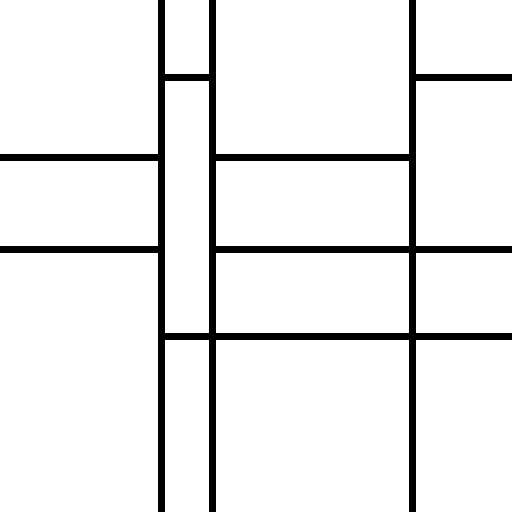
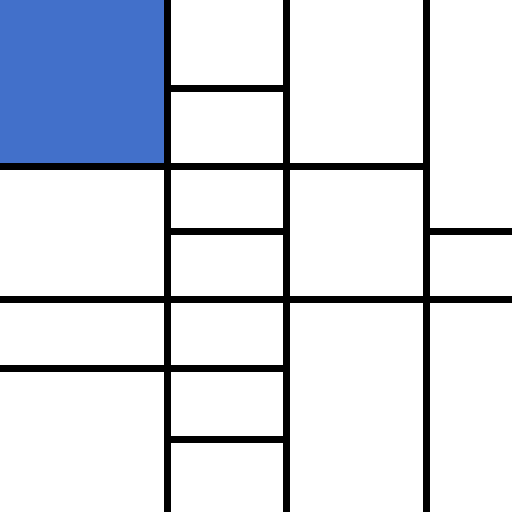
Add mondriaan top left roi color

Changed region(s): [[0.0, 0.0, 1.0, 1.0]]

diff --git a/src/mondriaan.py b/src/mondriaan.py
@@ -5,22 +5,35 @@ import random
 
 CANVAS_WIDTH = 512
 CANVAS_HEIGHT = 512
-LINE_THICKNESS_V = 5
-LINE_THICKNESS_H = 5
+LINE_THICKNESS = 5
 END_DIST_THRESH = int(CANVAS_WIDTH * 0.1)
 COLOR_BLACK_BGR = (0, 0, 0)
 H_STEP_MIN = int(CANVAS_HEIGHT * 0.1)
 H_STEP_MAX = int(CANVAS_HEIGHT * 0.4)
 V_STEP_MIN = int(CANVAS_WIDTH * 0.1)
 V_STEP_MAX = int(CANVAS_WIDTH * 0.2)
+BGR_B_LOWER = (125, 112, 66)
+BGR_B_UPPER = (210, 112, 66)
 
-
-# print(V_STEP_MIN)
 
 def create_canvas(h, w, c):
     img = np.zeros((h, w, 3), np.uint8)  # h-w-d
     img.fill(c)
     return img
+
+
+def random_color(bgr_lower, bgr_upper, index):
+    c = np.array([0, 0, 0])
+    for i, (l, u) in enumerate(zip(bgr_lower, bgr_upper)):
+        if i == index:
+            c[i] = random.randint(bgr_lower[index], bgr_upper[index])
+        else:
+            c[i] = u
+    return c
+
+
+def roi_fill_color(img, roi, color):
+    img[roi[0][1]:roi[1][1], roi[0][0]:roi[1][0]] = color
 
 
 def draw_v_lines(img, h_step_min, h_step_max, end_dist_thresh, color, thickness):
@@ -67,22 +80,37 @@ def draw_h_lines(img, v_lines, v_step_min, v_step_max, end_dist_thresh, color, t
             break
 
         last_v = 0
+        v_step_h_lines = []
         for v_line in v_lines:
             if random.choice(draw_choice) > 0:
                 img = cv2.line(img,
                                (last_v, v_step_end), (v_line, v_step_end),
                                color,
                                thickness)
-                h_lines.append(((last_v, v_line), v_step_end))
+                v_step_h_lines.append((last_v, v_line))
+
             last_v = v_line
 
+        h_lines.append([v_step_h_lines, v_step_end])
         v_step_start = v_step_end
 
     return h_lines
 
 
-def roi_top_left(img, v_lines, h_lines):
-    pass
+def roi_top_left(img, v_lines, h_lines, thickness):
+    pt1 = (0, 0)
+    pt2 = None
+
+    v_line_first = v_lines[0]
+    for h_lines_at_v_step in h_lines:
+        lines, h = h_lines_at_v_step[0], h_lines_at_v_step[1]
+        for h_line_at_v_step in lines:
+            if h_line_at_v_step[1] == v_line_first:
+                pt2 = (int(v_line_first - thickness / 2), int(h - thickness / 2))
+                break
+        if pt2:
+            break
+    return (pt1, pt2)
 
 
 def roi_center_right(img, v_lines, h_lines):
@@ -99,11 +127,16 @@ def roi_center_left(img, v_lines, h_lines):
 
 img = create_canvas(CANVAS_HEIGHT, CANVAS_WIDTH, 255)
 
-v_lines = draw_v_lines(img, H_STEP_MIN, H_STEP_MAX, END_DIST_THRESH, COLOR_BLACK_BGR, LINE_THICKNESS_V)
-h_lines = draw_h_lines(img, v_lines, V_STEP_MIN, V_STEP_MAX, END_DIST_THRESH, COLOR_BLACK_BGR, LINE_THICKNESS_H)
+v_lines = draw_v_lines(img, H_STEP_MIN, H_STEP_MAX, END_DIST_THRESH, COLOR_BLACK_BGR, LINE_THICKNESS)
+h_lines = draw_h_lines(img, v_lines, V_STEP_MIN, V_STEP_MAX, END_DIST_THRESH, COLOR_BLACK_BGR, LINE_THICKNESS)
 
 # print(v_lines)
 # print(h_lines)
+# print()
+
+roi = roi_top_left(img, v_lines, h_lines, LINE_THICKNESS)
+color = random_color(BGR_B_LOWER, BGR_B_UPPER, 0)
+roi_fill_color(img, roi, color)
 
 cv2.imshow('mondriaan', img)
 cv2.imwrite('mondriaan.png', img)
